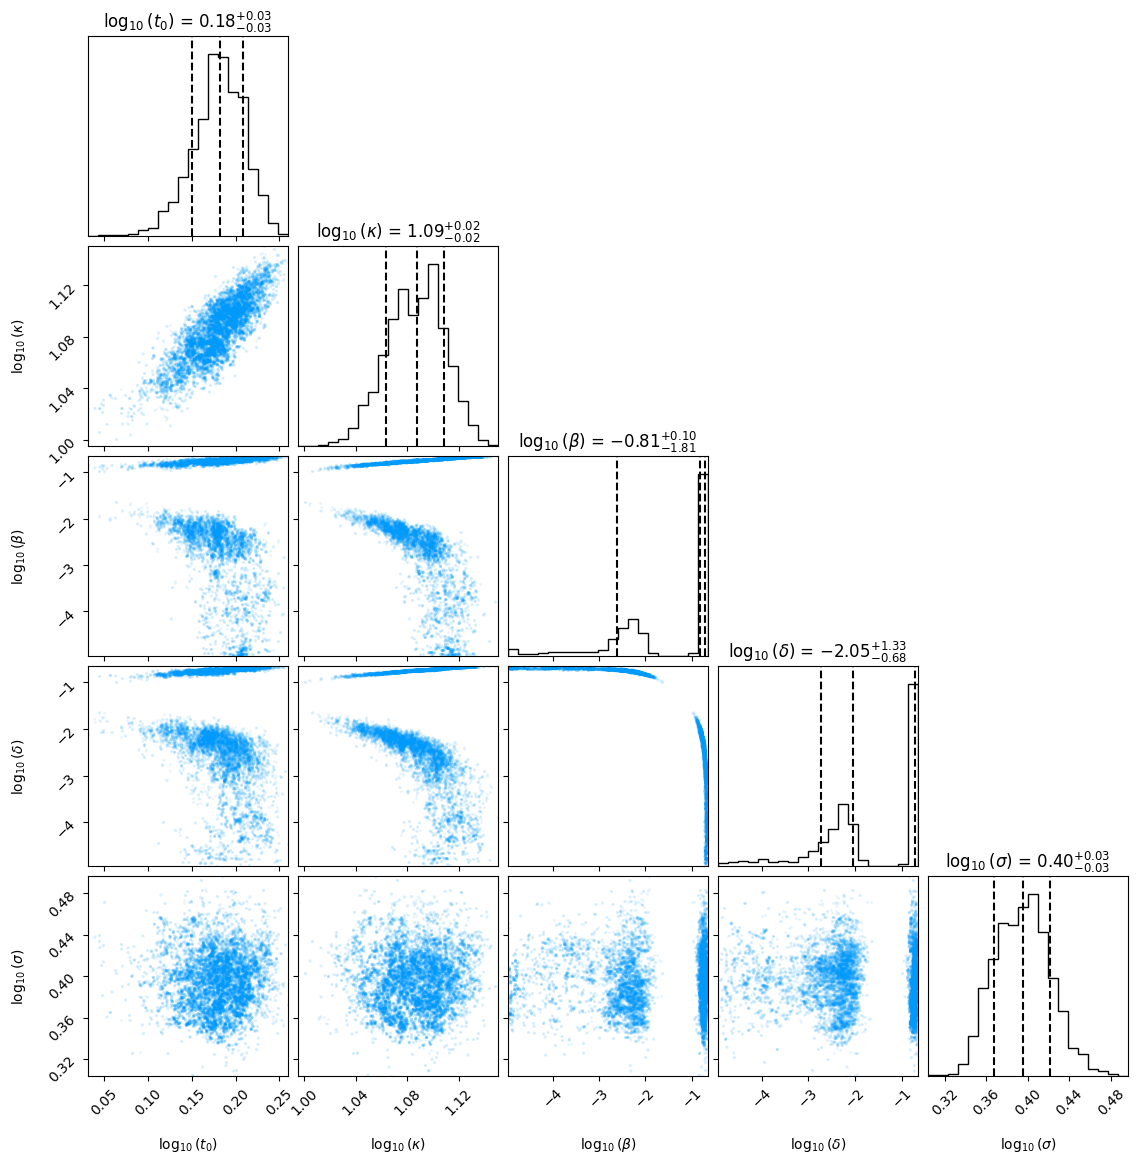
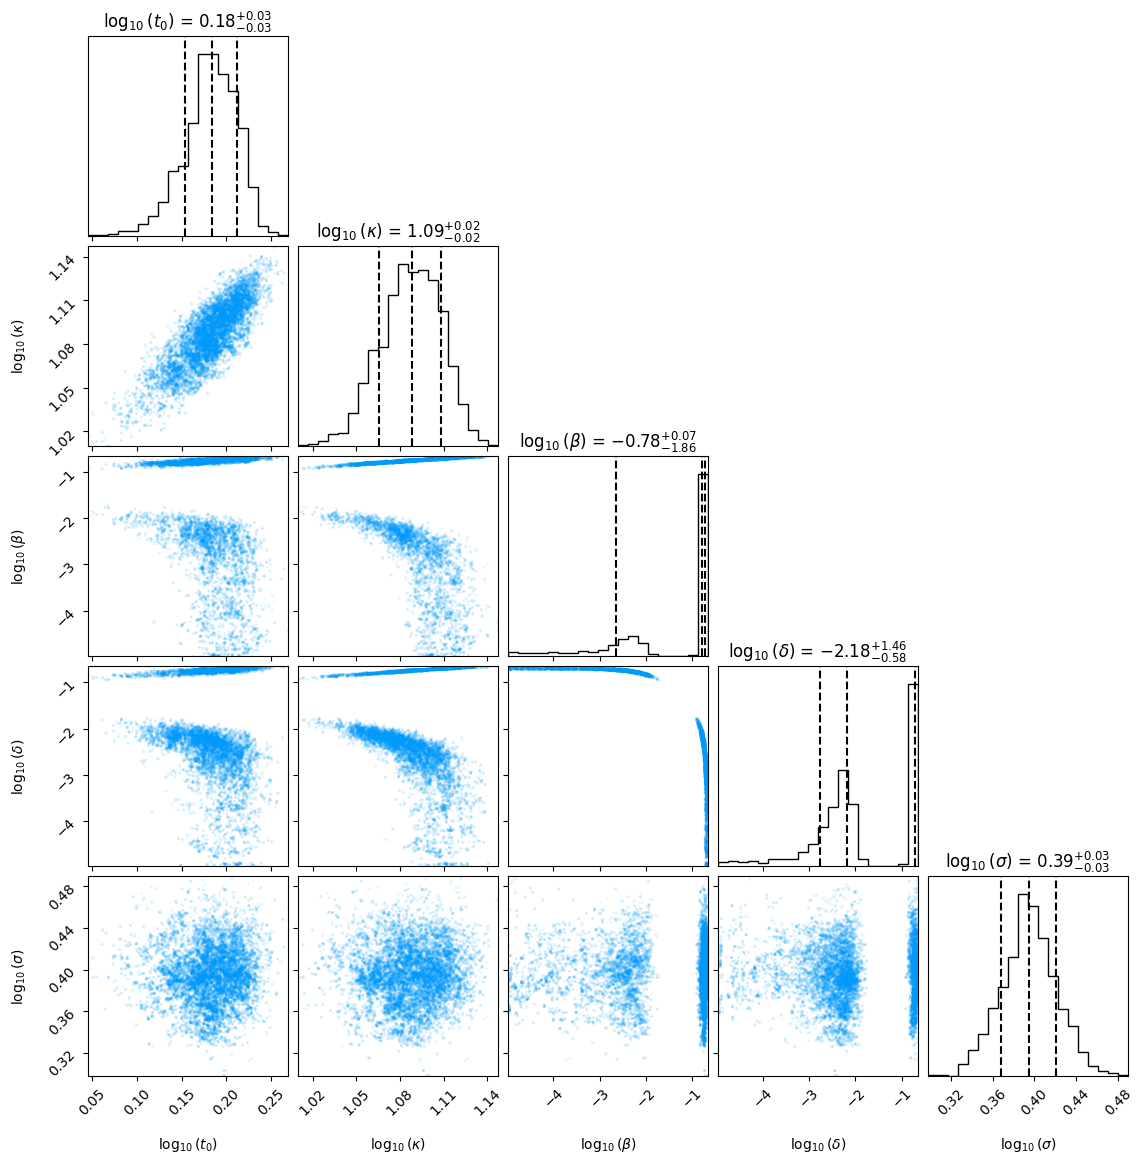
readme

diff --git a/README.md b/README.md
@@ -76,14 +76,22 @@ Currently, `nrpt` only works with the MCMC samplers of the
 automatically installed along `nrpt`. For this example, we will use the
 AutoRWMH (auto random-walk Metropolis-Hastings) sampler.
 ```python
-kernel = autorwmh.AutoRWMH(model)
+kernel = autorwmh.AutoRWMH(model, n_iter_opt_init_params=16384)
 ```
+The additional argument is requesting an initial optimization phase where the
+starting point of the Markov chain is chosen to be close to the mode of the
+posterior -- i.e., close to the maximum *a posteriori* (MAP). For complicated
+distributions such as the present one, choosing a starting point close to the
+high probability region can lead to a massive improvement in the performance 
+of NRPT. Specifically, `autostep` runs `n_iter_opt_init_params` iterations of
+the ADAM gradient descent algorithm (provided by 
+[`optax`](https://optax.readthedocs.io/en/latest/)) to improve the starting point.
 
 With the explorer in place, we can proceed to instantiate a `PTSampler` object
 ```python
 pt_sampler = initialization.PT(
     kernel, 
-    rng_key = random.key(1),
+    rng_key = random.key(123),
     n_rounds = 14,
     n_replicas = 15,
     n_refresh = 32,
@@ -103,7 +111,18 @@ barrier of the problem.
 This allows us to achieve a worse-case autocorrelation of the log-likelihood 
 (across replicas) of less than 0.95.
 
-Finally, we can run the process using
+After executing the above, we see the output
+```
+Running 16384 ADAM iterations to improve initial state.
+Initial tempered potential: 3.6e+07
+Final tempered potential: 3.6e+02
+```
+In this context, tempered potential simply corresponds to the negative log
+posterior density. Note that the optimization phase reduced the potential
+by 5 orders of magnitude. This usually leads to NRPT behaving qualitatively
+better.
+
+Now we are in place to run NRPT, which we do via
 ```python
 start_time = time.time()
 pt_sampler = sampling.run(pt_sampler)
@@ -113,37 +132,39 @@ The above will produce an output similar to this
 ```
  Round |     Λ |      logZ | ρ (mean/max) | α (min/mean) | llAC (mean/max) 
 ---------------------------------------------------------------------------
-     1     3.5   -8.60e+02        0.2/1.0        0.4/0.7       0.62 / 8.45
-     2     4.6   -8.35e+02        0.3/0.9        0.5/0.7       0.73 / 2.01
-     3     5.9   -7.43e+02        0.4/0.8        0.3/0.5       0.80 / 1.44
-     4     6.0   -6.51e+02        0.4/0.8        0.3/0.4       0.75 / 0.96
-     5     7.8   -5.52e+02        0.6/0.9        0.3/0.4       0.69 / 1.00
-     6     7.6   -5.33e+02        0.5/1.0        0.3/0.4       0.68 / 1.00
-     7     7.9   -5.09e+02        0.6/0.9        0.4/0.5       0.74 / 1.00
-     8     7.1   -4.37e+02        0.5/0.7        0.3/0.4       0.76 / 1.00
-     9     6.3   -3.79e+02        0.5/0.9        0.3/0.4       0.71 / 0.98
-    10     6.0   -3.70e+02        0.4/0.6        0.3/0.4       0.64 / 0.92
-    11     6.0   -3.69e+02        0.4/0.6        0.4/0.5       0.61 / 0.95
+     1     2.4   -3.70e+02        0.2/1.0        0.0/0.2       nan / nan
+     2     4.3   -1.15e+04        0.3/1.0        0.4/0.5       0.74 / 1.42
+     3     4.9   -3.59e+02        0.3/0.8        0.3/0.5       0.43 / 1.11
+     4     5.2   -3.67e+02        0.4/0.8        0.3/0.4       0.39 / 1.02
+     5     6.0   -3.72e+02        0.4/0.7        0.3/0.4       0.46 / 0.88
+     6     6.2   -3.71e+02        0.4/0.6        0.3/0.4       0.57 / 0.92
+     7     6.2   -3.68e+02        0.4/0.7        0.3/0.4       0.54 / 0.91
+     8     5.9   -3.69e+02        0.4/0.6        0.3/0.4       0.60 / 0.92
+     9     6.1   -3.70e+02        0.4/0.6        0.3/0.4       0.62 / 0.94
+    10     6.0   -3.70e+02        0.4/0.5        0.4/0.4       0.61 / 0.94
+    11     6.1   -3.71e+02        0.4/0.5        0.4/0.4       0.61 / 0.94
     12     6.2   -3.71e+02        0.4/0.5        0.4/0.4       0.63 / 0.94
-    13     6.2   -3.71e+02        0.4/0.5        0.3/0.4       0.62 / 0.93
-    14     6.2   -3.71e+02        0.4/0.5        0.4/0.4       0.62 / 0.93
---- 776.9151175022125 seconds ---
+    13     6.2   -3.70e+02        0.4/0.5        0.4/0.4       0.62 / 0.93
+    14     6.1   -3.70e+02        0.4/0.5        0.4/0.4       0.62 / 0.94
+--- 439.52830624580383 seconds ---
 ```
 The figures shown here correspond to
 
 - Estimates of the global barrier, which at the last round is 
-$\Lambda \approx 6.2$. 
+$\Lambda \approx 6.1$. 
 - Estimates of the log-normalization constant, which in the last round gives
-$\log(\mathcal{Z})\approx -371$.
+$\log(\mathcal{Z})\approx -370$.
 - Average and worst-case swap rejection probabilities. When the average is
-close to the maximum -- as in the last rounds -- the ideal *equi-rejection*
+close to the maximum -- as in the last 5 rounds -- the ideal *equi-rejection*
 condition has been approximately attained.
 - Average and worst-case explorer acceptance probabilities. If the explorer is
 working correctly along the path of distributions, we expect both values
 to be away from 0 and 1.
 - Average and worst-case autocorrelation of the log-likelihood before and 
 after the exploration steps. As described above, the number of refreshments
-was set so that the maximum was below 0.95.
+was set so that the maximum was below 0.95. **Note**: the estimator does not
+behave well in small samples, which is why we can see autocorrelation values
+larger than one.
 
 We can now extract the samples and create the corner plot using
 ```python
